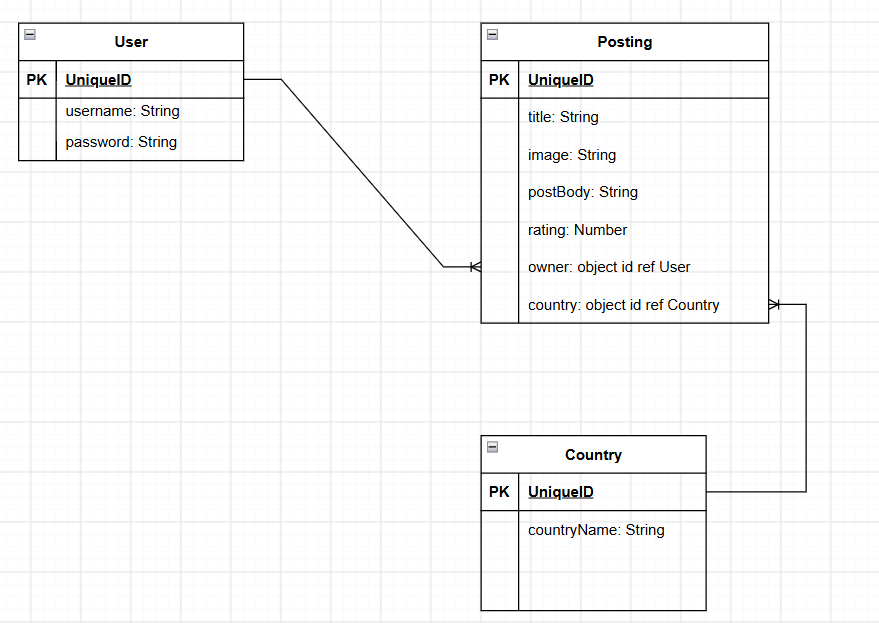
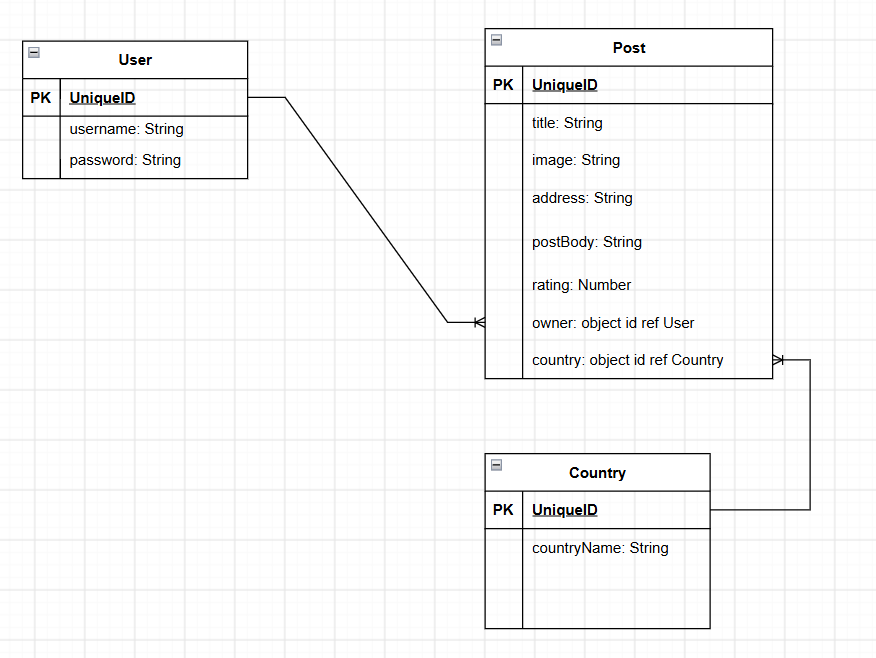
corrected error in ERD diagram

diff --git a/readme.md b/readme.md
@@ -30,7 +30,7 @@ Places of Interest - Travel/Tourism board
 
 ## Database Design
 
-![ERD diagram](image-2.png)
+![ERD diagram](image.png)
 
 ## Routes
 
